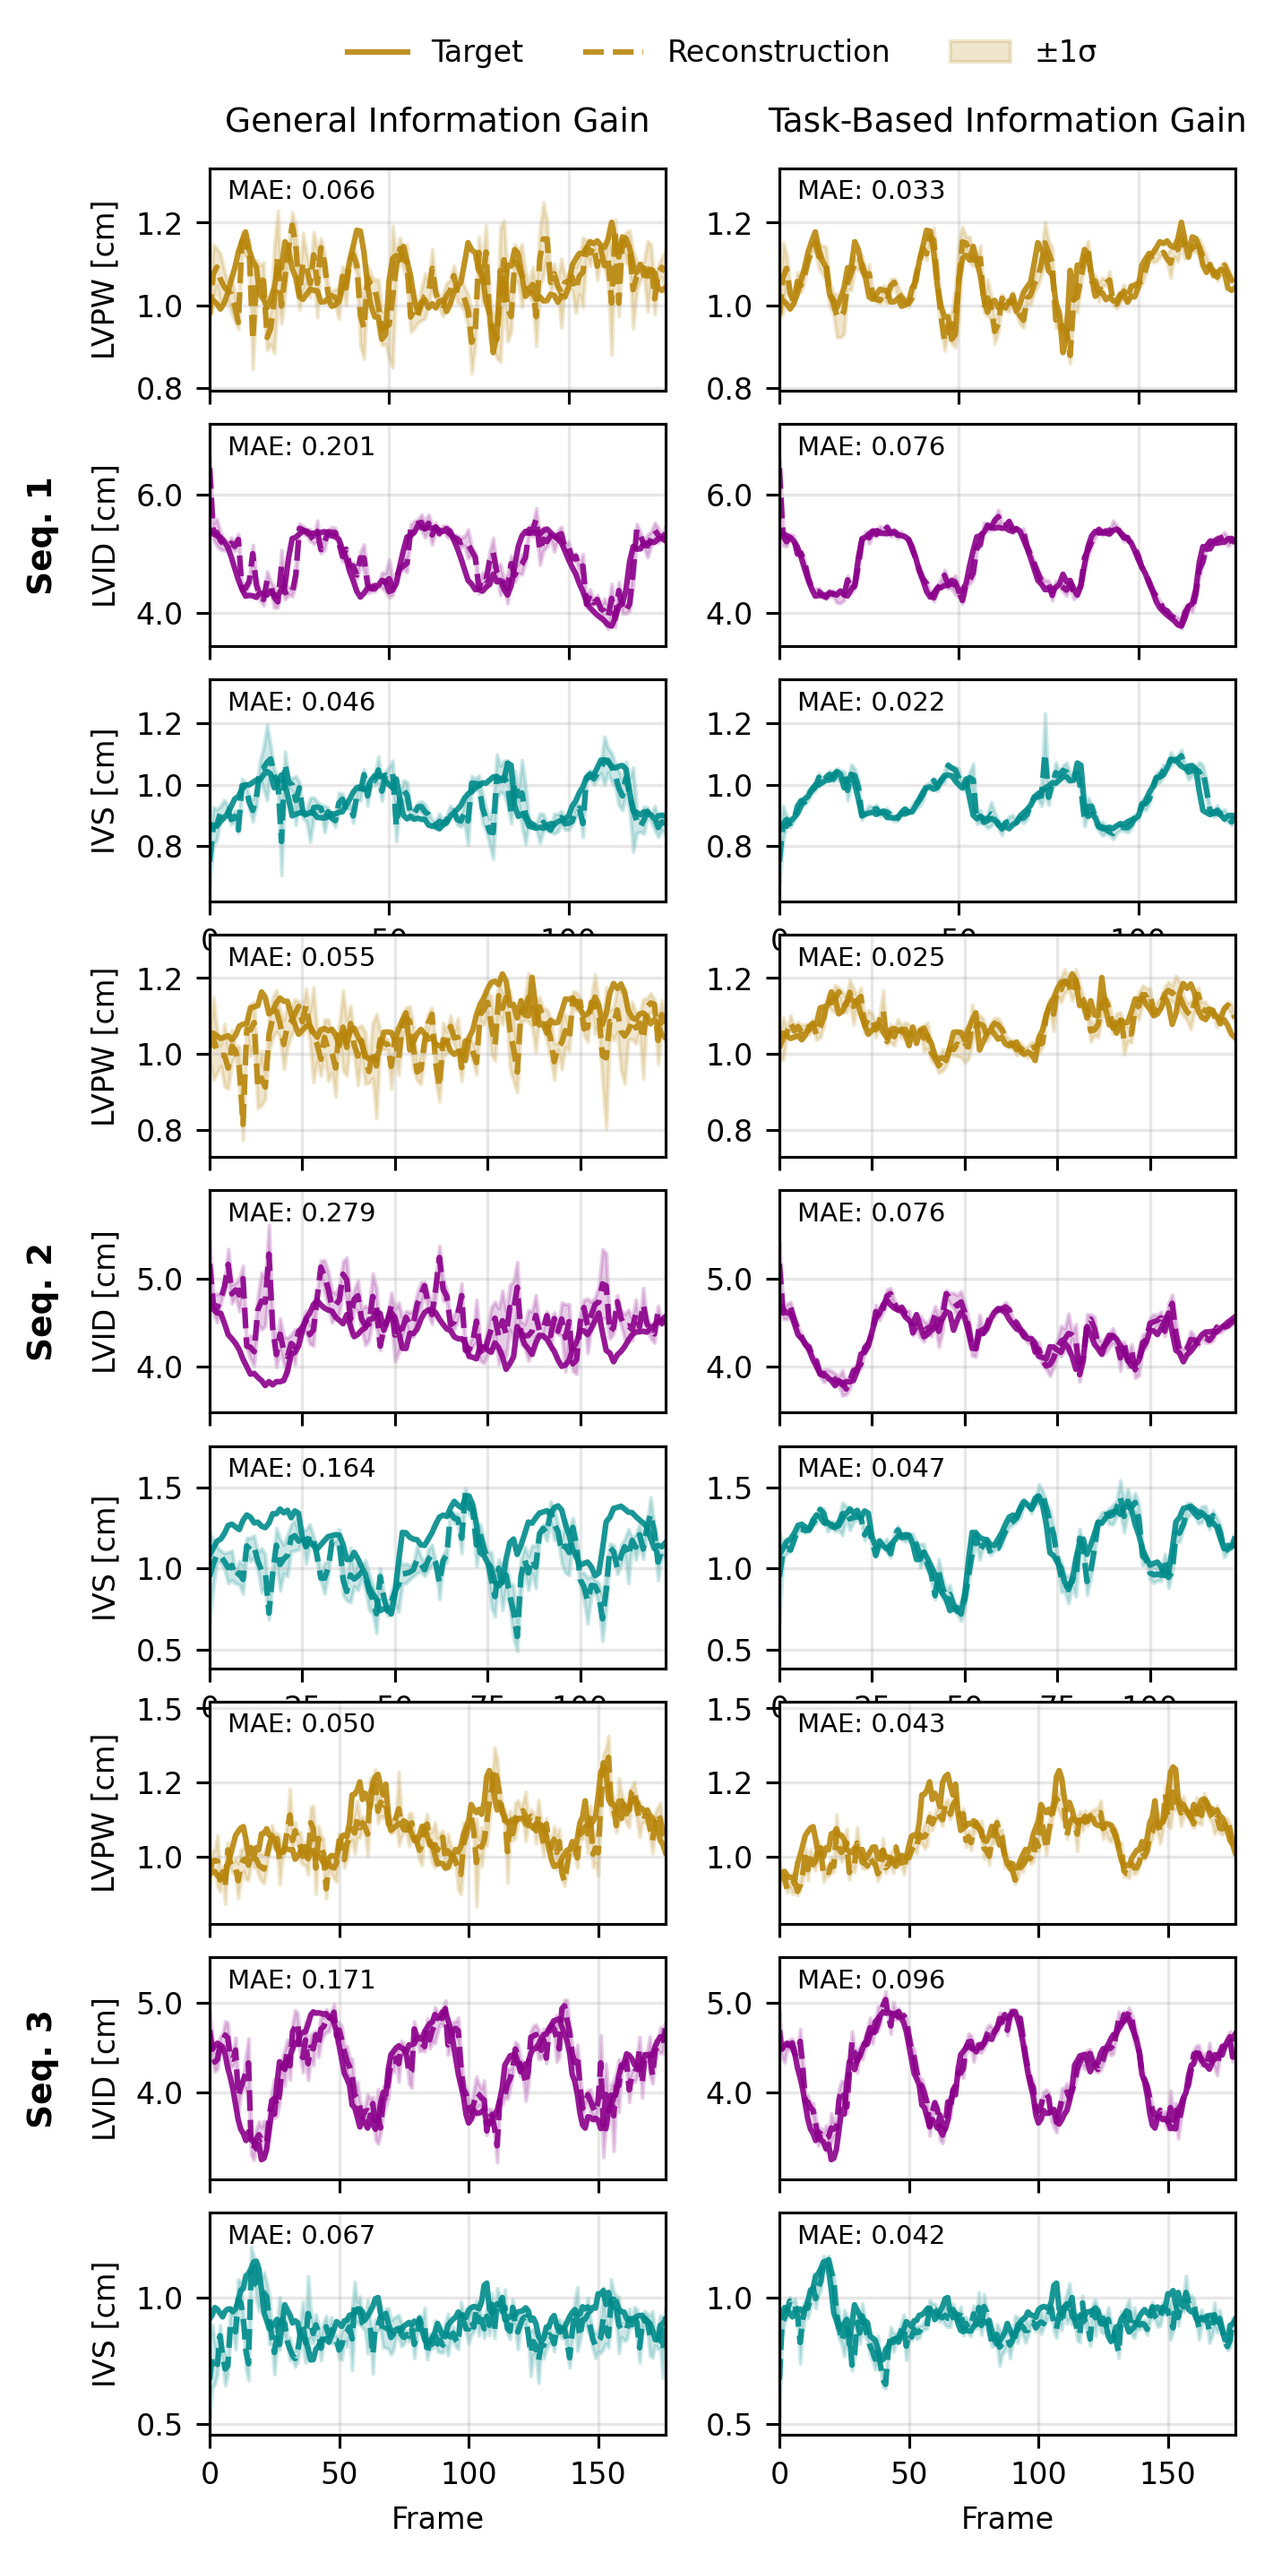
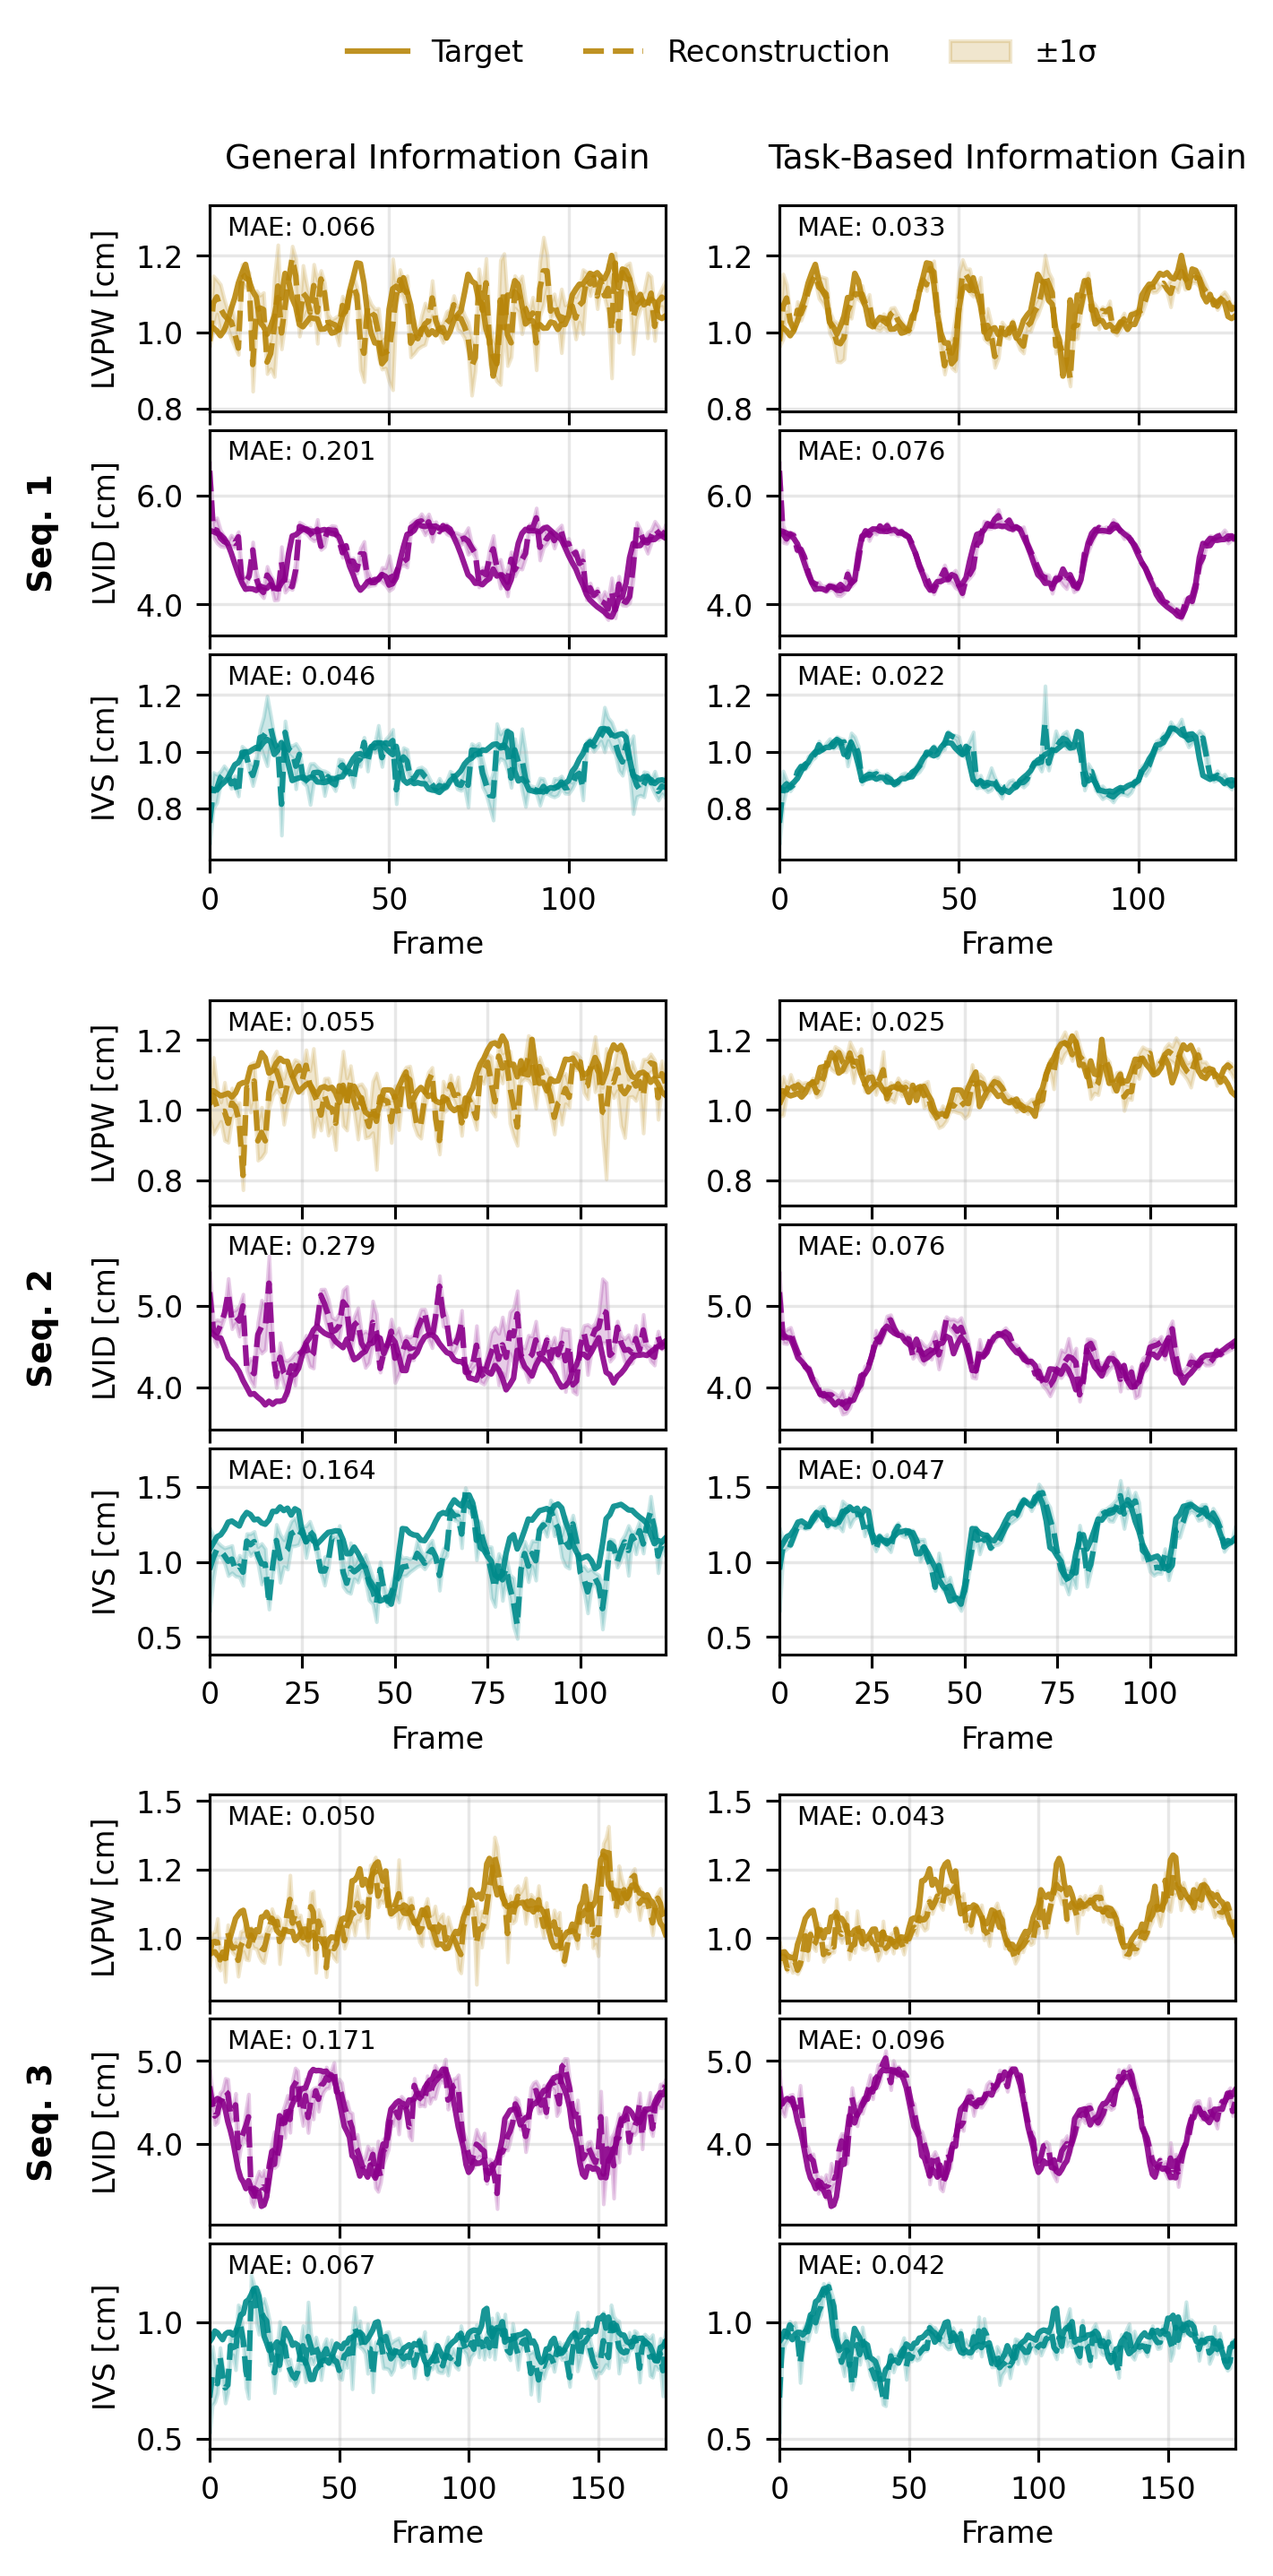
qualitative results

diff --git a/plotting/qualitative_dst.py b/plotting/qualitative_dst.py
@@ -1050,30 +1050,54 @@ def create_combined_time_series_plot_multiple_sequences(
         # Adjust figure size: 2/3 of IEEE page width, height based on total rows
         width = 4.77
         row_height = 0.9  # Height per measurement row
-        sequence_spacing = 0.3  # Extra space between sequences for titles
-        height = total_rows * row_height + (n_sequences - 1) * sequence_spacing + 1.0  # Extra for legend and titles
+        sequence_spacing = 0.5  # Extra space between sequences
+        height = total_rows * row_height + (n_sequences - 1) * sequence_spacing + 1.2  # Extra for legend and titles
         
-        fig, axes = plt.subplots(total_rows, 2, figsize=(width, height))
-
-        # Handle single row case
-        if total_rows == 1:
-            axes = axes.reshape(1, -1)
+        # Create figure with GridSpec for more control over spacing
+        fig = plt.figure(figsize=(width, height))
+        
+        # Calculate height ratios: equal for all rows, but we'll add space between sequence blocks
+        # We'll create extra "spacer" rows between sequences
+        n_spacers = n_sequences - 1
+        total_grid_rows = total_rows + n_spacers
+        
+        height_ratios = []
+        for seq_idx in range(n_sequences):
+            # Add measurement rows for this sequence
+            for _ in range(n_measurements):
+                height_ratios.append(1.0)
+            # Add spacer after each sequence except the last
+            if seq_idx < n_sequences - 1:
+                height_ratios.append(0.5)  # Spacer row (smaller height)
+        
+        gs = gridspec.GridSpec(total_grid_rows, 2, figure=fig, height_ratios=height_ratios,
+                               hspace=0.1, wspace=0.25)
+        
+        # Create axes, skipping spacer rows
+        axes = []
+        grid_row = 0
+        for seq_idx in range(n_sequences):
+            seq_axes = []
+            for meas_idx in range(n_measurements):
+                ax1 = fig.add_subplot(gs[grid_row, 0])
+                ax2 = fig.add_subplot(gs[grid_row, 1])
+                seq_axes.append((ax1, ax2))
+                grid_row += 1
+            axes.append(seq_axes)
+            # Skip spacer row
+            if seq_idx < n_sequences - 1:
+                grid_row += 1
 
         # Store legend information (only need one set)
         legend_handles = None
         legend_labels = None
 
-        # Track row indices for each sequence block (for adding sequence titles)
-        sequence_start_rows = []
-
         for seq_idx in range(n_sequences):
             data1 = data1_list[seq_idx]
             data2 = data2_list[seq_idx]
-            
-            sequence_start_rows.append(seq_idx * n_measurements)
 
             for meas_idx, measurement_type in enumerate(measurement_types_to_plot):
-                row_idx = seq_idx * n_measurements + meas_idx
+                ax1, ax2 = axes[seq_idx][meas_idx]
                 color = MEASUREMENT_COLORS[measurement_type]
 
                 # Get frame indices for both sequences (can be different lengths)
@@ -1139,8 +1163,6 @@ def create_combined_time_series_plot_multiple_sequences(
                     shared_ylim = (0, 1)
 
                 # Plot for strategy 1 (left column) - greedy_entropy
-                ax1 = axes[row_idx, 0]
-
                 # Target and reconstruction for strategy 1
                 valid_target1 = ~np.isnan(target_lengths1)
                 valid_recon1 = ~np.isnan(recon_lengths1)
@@ -1182,8 +1204,8 @@ def create_combined_time_series_plot_multiple_sequences(
                             alpha=0.2,
                         )
 
-                # Store legend handles and labels (only need to do this once per measurement type)
-                if seq_idx == 0 and legend_handles is None:
+                # Store legend handles and labels (only need to do this once)
+                if seq_idx == 0 and meas_idx == 0 and legend_handles is None:
                     legend_handles = [line1, line2]
                     legend_labels = ["Target", "Reconstruction"]
                     if fill_patch is not None:
@@ -1202,8 +1224,6 @@ def create_combined_time_series_plot_multiple_sequences(
                     )
 
                 # Plot for strategy 2 (right column) - downstream_task_selection
-                ax2 = axes[row_idx, 1]
-
                 # Target and reconstruction for strategy 2
                 valid_target2 = ~np.isnan(target_lengths2)
                 valid_recon2 = ~np.isnan(recon_lengths2)
@@ -1269,7 +1289,7 @@ def create_combined_time_series_plot_multiple_sequences(
                 # Y-axis label: Measurement type on left column
                 ax1.set_ylabel(f"{measurement_type} [cm]", fontsize=8)
 
-                # X-axis label only on the last row of each sequence block
+                # X-axis label on the last row of each sequence block
                 is_last_measurement_in_sequence = (meas_idx == n_measurements - 1)
                 if is_last_measurement_in_sequence:
                     ax1.set_xlabel("Frame", fontsize=8)
@@ -1285,23 +1305,19 @@ def create_combined_time_series_plot_multiple_sequences(
                 ax1.yaxis.set_major_formatter(plt.FuncFormatter(lambda x, p: f"{x:.1f}"))
                 ax2.yaxis.set_major_formatter(plt.FuncFormatter(lambda x, p: f"{x:.1f}"))
 
-        # Add column titles (strategy names)
-        axes[0, 0].set_title(strategy1_name, fontsize=9, pad=10)
-        axes[0, 1].set_title(strategy2_name, fontsize=9, pad=10)
+        # Add column titles (strategy names) to the first row
+        axes[0][0][0].set_title(strategy1_name, fontsize=9, pad=10)
+        axes[0][0][1].set_title(strategy2_name, fontsize=9, pad=10)
 
         # Adjust layout
         plt.tight_layout()
-        plt.subplots_adjust(top=0.92, wspace=0.25, hspace=0.15, left=0.15, right=0.95)
+        plt.subplots_adjust(top=0.92, left=0.15, right=0.95)
 
         # Add sequence labels as text annotations on the left side
         for seq_idx in range(n_sequences):
-            # Get the first row of this sequence block
-            first_row_idx = seq_idx * n_measurements
-            last_row_idx = first_row_idx + n_measurements - 1
-            
-            # Get positions of first and last axes in this sequence block
-            ax_first = axes[first_row_idx, 0]
-            ax_last = axes[last_row_idx, 0]
+            # Get the first and last axes in this sequence block
+            ax_first = axes[seq_idx][0][0]
+            ax_last = axes[seq_idx][-1][0]
             
             pos_first = ax_first.get_position()
             pos_last = ax_last.get_position()
@@ -1327,7 +1343,7 @@ def create_combined_time_series_plot_multiple_sequences(
                 legend_handles,
                 legend_labels,
                 loc="upper center",
-                bbox_to_anchor=(0.55, 0.98),
+                bbox_to_anchor=(0.55, 0.99),
                 ncol=len(legend_labels),  # Arrange horizontally
                 fontsize=8,
                 framealpha=0.9,
@@ -1339,7 +1355,6 @@ def create_combined_time_series_plot_multiple_sequences(
         print(
             f"Saved combined time series comparison (multiple sequences, all measurements) to {save_path}"
         )
-
 
 if __name__ == "__main__":
     parser = argparse.ArgumentParser()
